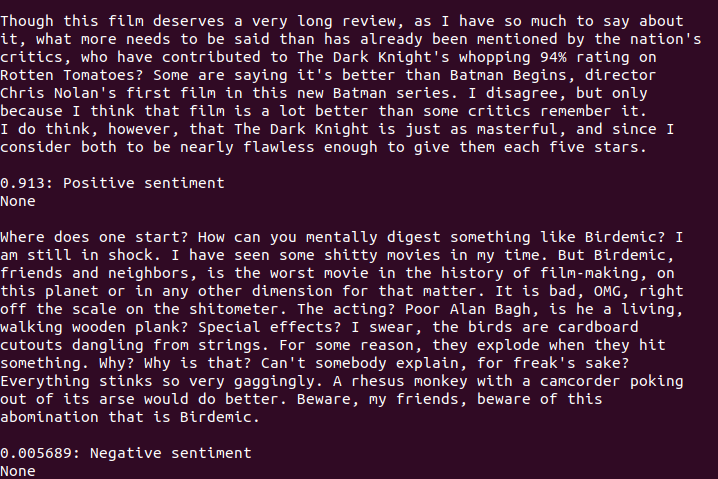
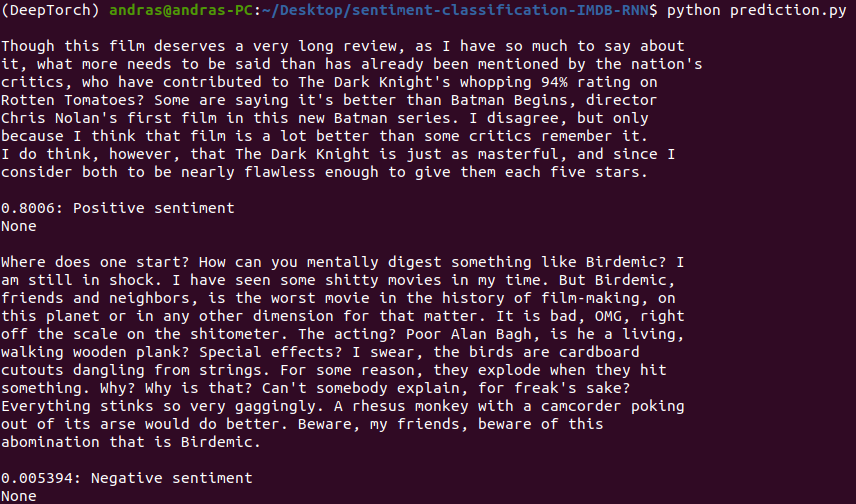
Add files via upload
Refactored the code, moreover added "early stopping" to address over-fitting.

diff --git a/utils.py b/utils.py
@@ -1,0 +1,127 @@
+import torch
+import torch.nn as nn
+import torch.utils as utils
+
+import pandas as pd
+from sklearn.feature_extraction.text import CountVectorizer
+
+
+
+### DATASET ###
+class IMDB(utils.data.Dataset):
+    """
+    Create a dataset class with the necessary preprocessing steps. 
+    Later this class is used in the dataloader object.
+    """
+    def __init__(self, path, max_seq_len):
+        self.max_seq_len = max_seq_len
+        
+        # read in data
+        df = pd.read_csv(path)
+        # transform sentiment to integer
+        df['sentiment'] = df.sentiment.map({'positive': 1, 'negative': 0})       
+
+        # vectorize reviews
+        vectorizer = CountVectorizer(stop_words= 'english', min_df= 0.01)
+        vectorizer.fit(df.review.tolist())
+
+        # dict(token:integer)
+        self.token2idx = vectorizer.vocabulary_
+        self.token2idx['<PAD>'] = max(self.token2idx.values()) +1
+        # tokenizer
+        tokenizer = vectorizer.build_analyzer()
+        # encoder (string to integer)
+        self.encode = lambda x: [self.token2idx[token] for token 
+                                in tokenizer(x) if token in self.token2idx]
+        # padding (in case sequence is shorter than max_seq_len)
+        self.pad = lambda x: x + (max_seq_len - len(x)) * [self.token2idx['<PAD>']]
+        # create sequences (take only max_seq_len)
+        sequences = [self.encode(sequence)[:max_seq_len] for sequence 
+                                                        in df.review.tolist()]
+
+        sequences, self.labels = zip(*[(sequence, label) for sequence, label
+                                    in zip(sequences, df.sentiment.tolist())
+                                    if sequence])
+        # create padded sequences
+        self.sequences = [self.pad(sequence) for sequence in sequences]
+
+
+    def __getitem__(self, idx):
+        assert len(self.sequences[idx]) == self.max_seq_len
+        return self.sequences[idx], self.labels[idx]
+
+
+    def __len__(self):
+        return len(self.sequences)
+
+
+
+### RNN MODEL ### 
+class RNN(nn.Module):
+    """
+    Create an GRU based (RNN) architecture to classify (binary) sentiment of reviews.
+    """
+    def __init__(
+        self, 
+        batch_size,
+        embedded_vectors,
+        hidden_size= 128, 
+        n_layers= 1,
+        device= 'cpu'):
+        super().__init__()
+        self.batch_size = batch_size
+        self.embededd_vectors = embedded_vectors
+        self.hidden_size = hidden_size
+        self.n_layers = n_layers
+        self.device = device
+
+        # architecture
+        self.encoder = nn.Embedding.from_pretrained(embedded_vectors)
+        self.rnn = nn.GRU(
+            self.embededd_vectors.shape[1], 
+            hidden_size, 
+            num_layers = n_layers, 
+            batch_first= True)
+        self.decoder = nn.Linear(hidden_size, 1)
+
+    # initialize first hidden state with random values
+    def _init_hidden(self):
+        return torch.randn(
+            self.n_layers, self.batch_size, self.hidden_size).to(self.device)
+
+
+    def forward(self, X):
+        batch_size = X.shape[0]
+        if batch_size != self.batch_size:
+            self.batch_size = batch_size
+        
+        encoded = self.encoder(X)
+        out, hidden = self.rnn(encoded, self._init_hidden())
+        out = self.decoder(out[:, :, -1]).squeeze()
+        return out
+
+
+
+### REVIEWS ###
+pos_review = """
+Though this film deserves a very long review, as I have so much to say about 
+it, what more needs to be said than has already been mentioned by the nation's 
+critics, who have contributed to The Dark Knight's whopping 94% rating on 
+Rotten Tomatoes? Some are saying it's better than Batman Begins, director 
+Chris Nolan's first film in this new Batman series. I disagree, but only 
+because I think that film is a lot better than some critics remember it. 
+I do think, however, that The Dark Knight is just as masterful, and since I 
+consider both to be nearly flawless enough to give them each five stars. """
+
+neg_review = """
+Where does one start? How can you mentally digest something like Birdemic? I 
+am still in shock. I have seen some shitty movies in my time. But Birdemic, 
+friends and neighbors, is the worst movie in the history of film-making, on 
+this planet or in any other dimension for that matter. It is bad, OMG, right 
+off the scale on the shitometer. The acting? Poor Alan Bagh, is he a living, 
+walking wooden plank? Special effects? I swear, the birds are cardboard 
+cutouts dangling from strings. For some reason, they explode when they hit 
+something. Why? Why is that? Can't somebody explain, for freak's sake?
+Everything stinks so very gaggingly. A rhesus monkey with a camcorder poking 
+out of its arse would do better. Beware, my friends, beware of this 
+abomination that is Birdemic."""

diff --git a/training.py b/training.py
@@ -1,0 +1,161 @@
+import torch
+import torch.nn as nn
+import torch.optim as optim
+import torch.utils as utils
+import torchtext as text
+
+import matplotlib.pyplot as plt
+import numpy as np
+
+from utils import IMDB, RNN, pos_review, neg_review
+
+
+
+# configure device
+device = torch.device('cuda' if torch.cuda.is_available() else 'cpu')
+
+
+
+### HYPER PARAMETERS ###
+path = 'data/IMDB Dataset.csv'
+max_seq_len = 128
+batch_size = 512
+hidden_size = 128
+learning_rate = 0.001
+num_epochs = 25
+model_ckp = 'best_model.pth'
+name = 'training_evaluation.png'
+
+
+
+# dataset instance
+imdb = IMDB(path, max_seq_len)
+
+
+
+### TRAIN & TEST SPLIT ###
+train_size = int(0.8 * len(imdb))
+test_size = len(imdb) - train_size
+lengths = [train_size, test_size]
+train_set, test_set = utils.data.random_split(
+                imdb, lengths, generator= torch.Generator().manual_seed(42))
+
+
+
+### DATA LOADER ###
+# to tensor function
+def toTensor(batch):
+    inputs = torch.LongTensor([item[0] for item in batch])
+    target = torch.FloatTensor([item[1] for item in batch])
+    return inputs, target
+
+# train & test data loader
+train_loader = utils.data.DataLoader(train_set, batch_size= batch_size,
+                                     shuffle= True, collate_fn= toTensor)
+test_loader = utils.data.DataLoader(test_set, batch_size= batch_size, 
+                                    shuffle= False,  collate_fn= toTensor)
+
+
+
+# Glove embedding
+glove_vectors = text.vocab.GloVe(name= '6B', dim= 50)
+# list of tokens
+tokens = list(imdb.token2idx.keys())
+# tensor of embedded tokens
+embedded_vectors = glove_vectors.get_vecs_by_tokens(tokens, 
+                                                    lower_case_backup= True)
+
+
+
+# model instance
+model = RNN(batch_size, embedded_vectors, device= device)
+model = model.to(device) # push model to GPU
+
+
+
+### TRAINING LOOP ###
+"""
+GRU architecture with Adam optimizer and BinaryCrossEntoryLogitsLoss 
+objective function. "Early stoppage" is implemented to adress over-fitting.
+"""
+# criterion and optimizer
+criterion = nn.BCEWithLogitsLoss()
+optimizer = optim.Adam(model.parameters(), lr= learning_rate)
+
+train_loss = []
+test_loss = []
+
+for epoch in range(num_epochs):
+    model.train()
+
+    total_loss, n_samples = 0.0, 0
+    for reviews, labels in train_loader:
+        reviews, labels = reviews.to(device), labels.to(device)
+
+        model.zero_grad()
+        y_ = model(reviews)
+    
+        loss = criterion(y_, labels)
+        
+        loss.backward()
+        optimizer.step()
+        
+        total_loss += loss.item() * reviews.shape[0]
+        n_samples += reviews.shape[0]
+
+    print(
+        f"Epoch {epoch+1}/{num_epochs} |"
+        f"train loss: {total_loss / n_samples:9.3f} |")
+
+    # append train loss to lists
+    train_loss.append(total_loss / n_samples)
+
+    # evaluation
+    model.eval()
+
+    total_loss, n_correct, n_samples = 0.0, 0, 0
+    with torch.no_grad():
+        for reviews, labels in test_loader:
+            reviews = reviews.to(device)
+            labels = labels.to(device)
+                    
+            y_ = model(reviews)
+        
+            loss = criterion(y_, labels)
+            total_loss += loss.item() * reviews.shape[0]
+            n_samples += reviews.shape[0]
+
+    print(
+        f"Epoch {epoch+1}/{num_epochs} |"
+        f"valid loss: {total_loss / n_samples:9.3f} |")
+
+    # append test loss to lists
+    test_loss.append(total_loss / n_samples)
+
+    # early stopping
+    if test_loss[epoch] == min(test_loss):
+        torch.save(model.state_dict(), model_ckp)
+        print(f"The best parameter setting is from epoch {epoch+1}.")
+
+
+
+### VISUAL EVALUATION ###
+# visualize training and testing statistics
+X_values = np.arange(num_epochs)
+
+fig = plt.figure()
+ax = plt.subplot(1, 1, 1)
+ax.plot(X_values, train_loss, label= 'training')
+ax.plot(X_values, test_loss, label= 'testing')
+ax.set_xlabel('Epochs')
+ax.set_ylabel('Loss')
+plt.title('Training & Testing loss')
+ax.legend()
+
+plt.show()
+# save figure
+fig.savefig(name)
+
+
+# Training done
+print('Training done!')

diff --git a/prediction.py b/prediction.py
@@ -1,0 +1,63 @@
+import torch
+import torchtext as text
+
+from utils import IMDB, RNN, pos_review, neg_review
+
+
+
+# configure device
+device = torch.device('cuda' if torch.cuda.is_available() else 'cpu')
+
+
+
+### HYPER PARAMETERS ###
+path = 'data/IMDB Dataset.csv'
+max_seq_len = 128
+batch_size = 512
+hidden_size = 128
+checkpoint = 'best_model.pth'
+
+
+
+# dataset instance
+imdb = IMDB(path, max_seq_len)
+
+
+
+# Glove embedding
+glove_vectors = text.vocab.GloVe(name= '6B', dim= 50)
+# list of tokens
+tokens = list(imdb.token2idx.keys())
+# tensor of embedded tokens
+embedded_vectors = glove_vectors.get_vecs_by_tokens(tokens, 
+                                                    lower_case_backup= True)
+
+
+
+# model instance
+model = RNN(batch_size, embedded_vectors, device= device)
+model.load_state_dict(torch.load(checkpoint))
+model = model.to(device) # push model to GPU
+
+
+
+### PREDICTING REVIEW SENTIMENT ###
+def predict_sentiment(review):
+    model.eval()
+    with torch.no_grad():
+        review_vector = torch.LongTensor(
+                                [imdb.pad(imdb.encode(review))]).to(device)
+        
+        y_ = model(review_vector)
+        prediction = torch.sigmoid(y_).item()
+
+        if prediction > 0.5:
+            print(f'{prediction:0.4}: Positive sentiment')
+        else:
+            print(f'{prediction:0.4}: Negative sentiment')
+
+# check sentiment of reviews
+print(f"{pos_review} \n")
+print(predict_sentiment(pos_review))
+print(f"{neg_review} \n")
+print(predict_sentiment(neg_review))

diff --git a/README.md b/README.md
@@ -1,13 +1,13 @@
 ### Sentiment Classification with RNN architecture, GloVe 50-d embedding layer
 
 This project is a follow-up of the "simpler" approach in the other repository.
-The words are represented in continuous space, and the architecture is based on pytorch's GRU (faster to train, than other RNNs)
+The words' semantics are represented in continuous space, and the architecture is based on pytorch's GRU (faster to train, than other RNNs)
 
-The best point to stop the training is after the 17th epoch (lowest testing error).From that point, the testing loss stops decreasing.
+Implemented the "early stopping" technique to address over-fitting. During the training, the best parameters were saved, and during prediction, the model class (from utils.py) was fitted with the saved parameters (state_dict).
 
 ![image](training_evaluation.png)
 
-Below one can see the (over-fitted) model's prediction of 2 reviews.
+Below one can see the model's prediction of 2 reviews.
 1 positive and 1 negative. The reviews were taken from the internet, as to simulate the real-world (unseen data).
 
 ![image](predictions.png)
